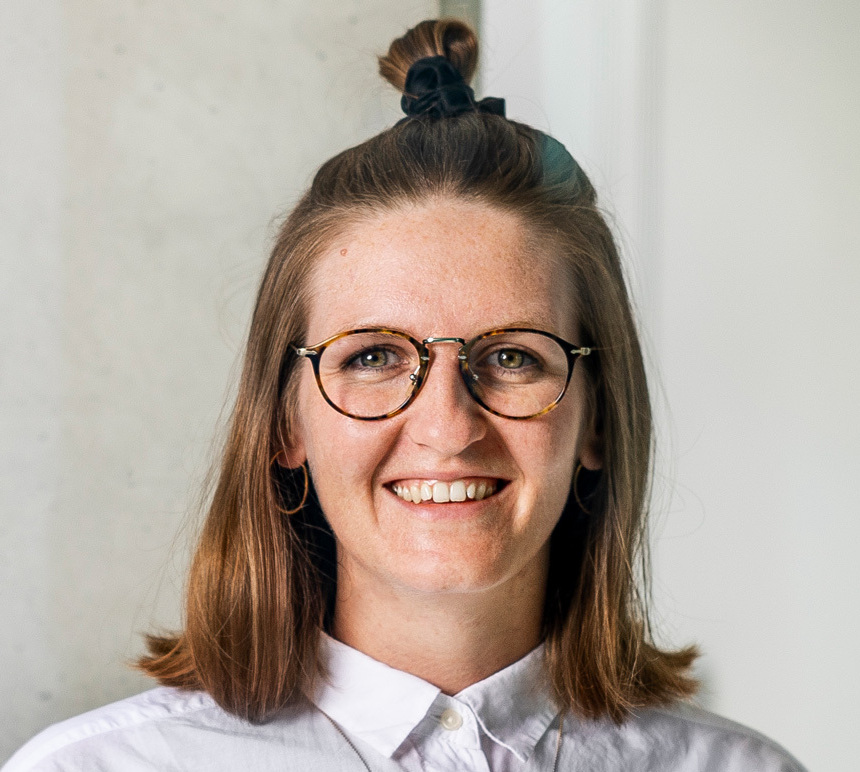
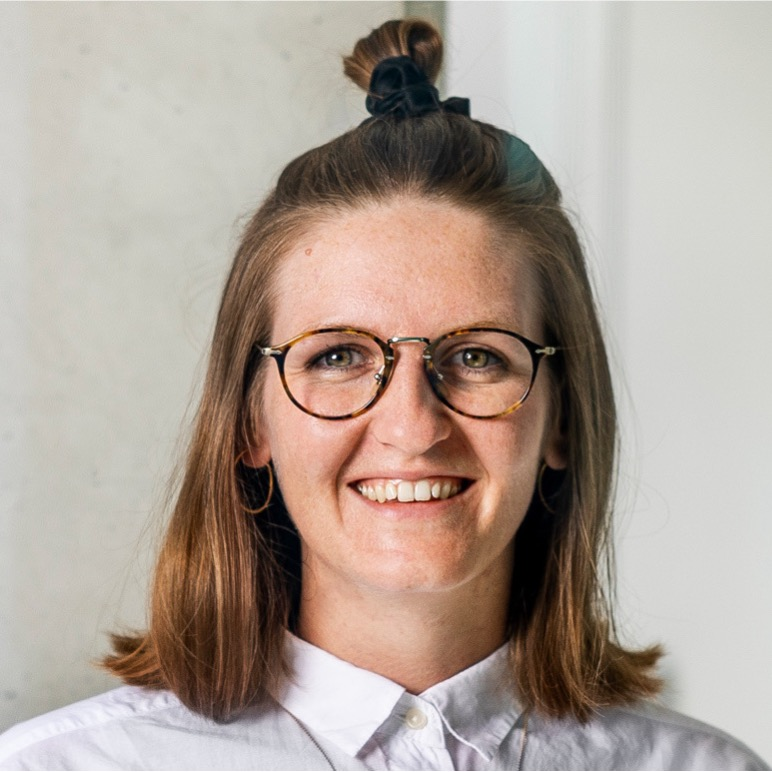
optimized image and updated team text of carla

Changed region(s): [[0.0, 0.0, 1.0, 1.0], [0.4041, 0.8394, 0.4663, 0.8705]]

diff --git a/content/data/employees/carla-iten/carla-iten.md b/content/data/employees/carla-iten/carla-iten.md
@@ -7,7 +7,7 @@ preview: carla-iten-prev.jpg
 avatar: carla-iten.jpg
 role: Softwareentwicklerin
 education: Bachelor of Science
-slogan: Der Frau Ingeniör ist nichts zu schwör! 
+slogan: Ich mag es, mit meinem Code User und Kund:innen glücklich zu machen und ihnen das Leben zu vereinfachen.
 contact:
   tel: +41 79 725 15 58
   mail: carla.iten@apptiva.ch
@@ -22,7 +22,7 @@ skills:
   - title: Architektur
     items:
       - name: Zusammenarbeit und Organisation
-        value: 70
+        value: 85
       - name: Entscheiden
         value: 60
       - name: Dokumentieren
@@ -68,4 +68,8 @@ skills:
 
 # Meine Erfahrungen
 
-Seit 2011 befasse ich mich damit, wie ich Usern und Kund*innen mit meiner Arbeit als Softwareentwicklerin das Leben vereinfache. Durch mein analytisches Denken und meine Neugierde kann ich mich jeweils rasch in neue Projekte und Technologien einarbeiten. Mein offener Kommunikationsstil erlaubt mir, mich schnell und erfolgreich in neue Teams einzubringen. Die Tätigkeiten bei unterschiedlichen Softwareunternehmen ermöglichten mir, vielfältige Erfahrungen zu sammeln. Durch das Informatik-Studium an der Hochschule Luzern konnte ich bereits bestehendes Wissen vertiefen und in den Bereichen Software Engineering und Architektur viel dazulernen.
+Seit 2011 befasse ich mich damit, wie ich Usern und Kund:innen mit meiner Arbeit als Softwareentwicklerin das Leben vereinfache. Durch mein analytisches Denken und meine Neugierde kann ich mich jeweils rasch in neue Projekte und Technologien einarbeiten.
+
+Nach der Ausbildung zur Informatikerin EFZ konnte ich bei unterschiedlichen Softwareunternehmen vielfältige Erfahrungen sammeln. Durch das Informatik-Studium an der Hochschule Luzern konnte ich bereits bestehendes Wissen vertiefen und in den Bereichen Software Engineering und Architektur viel dazulernen.
+
+Ich freue mich, mein Wissen aus der ERP-Welt und der Webentwicklung in einer Vielzahl von Projekten einzusetzen und zu deren Erfolg beizutragen.
